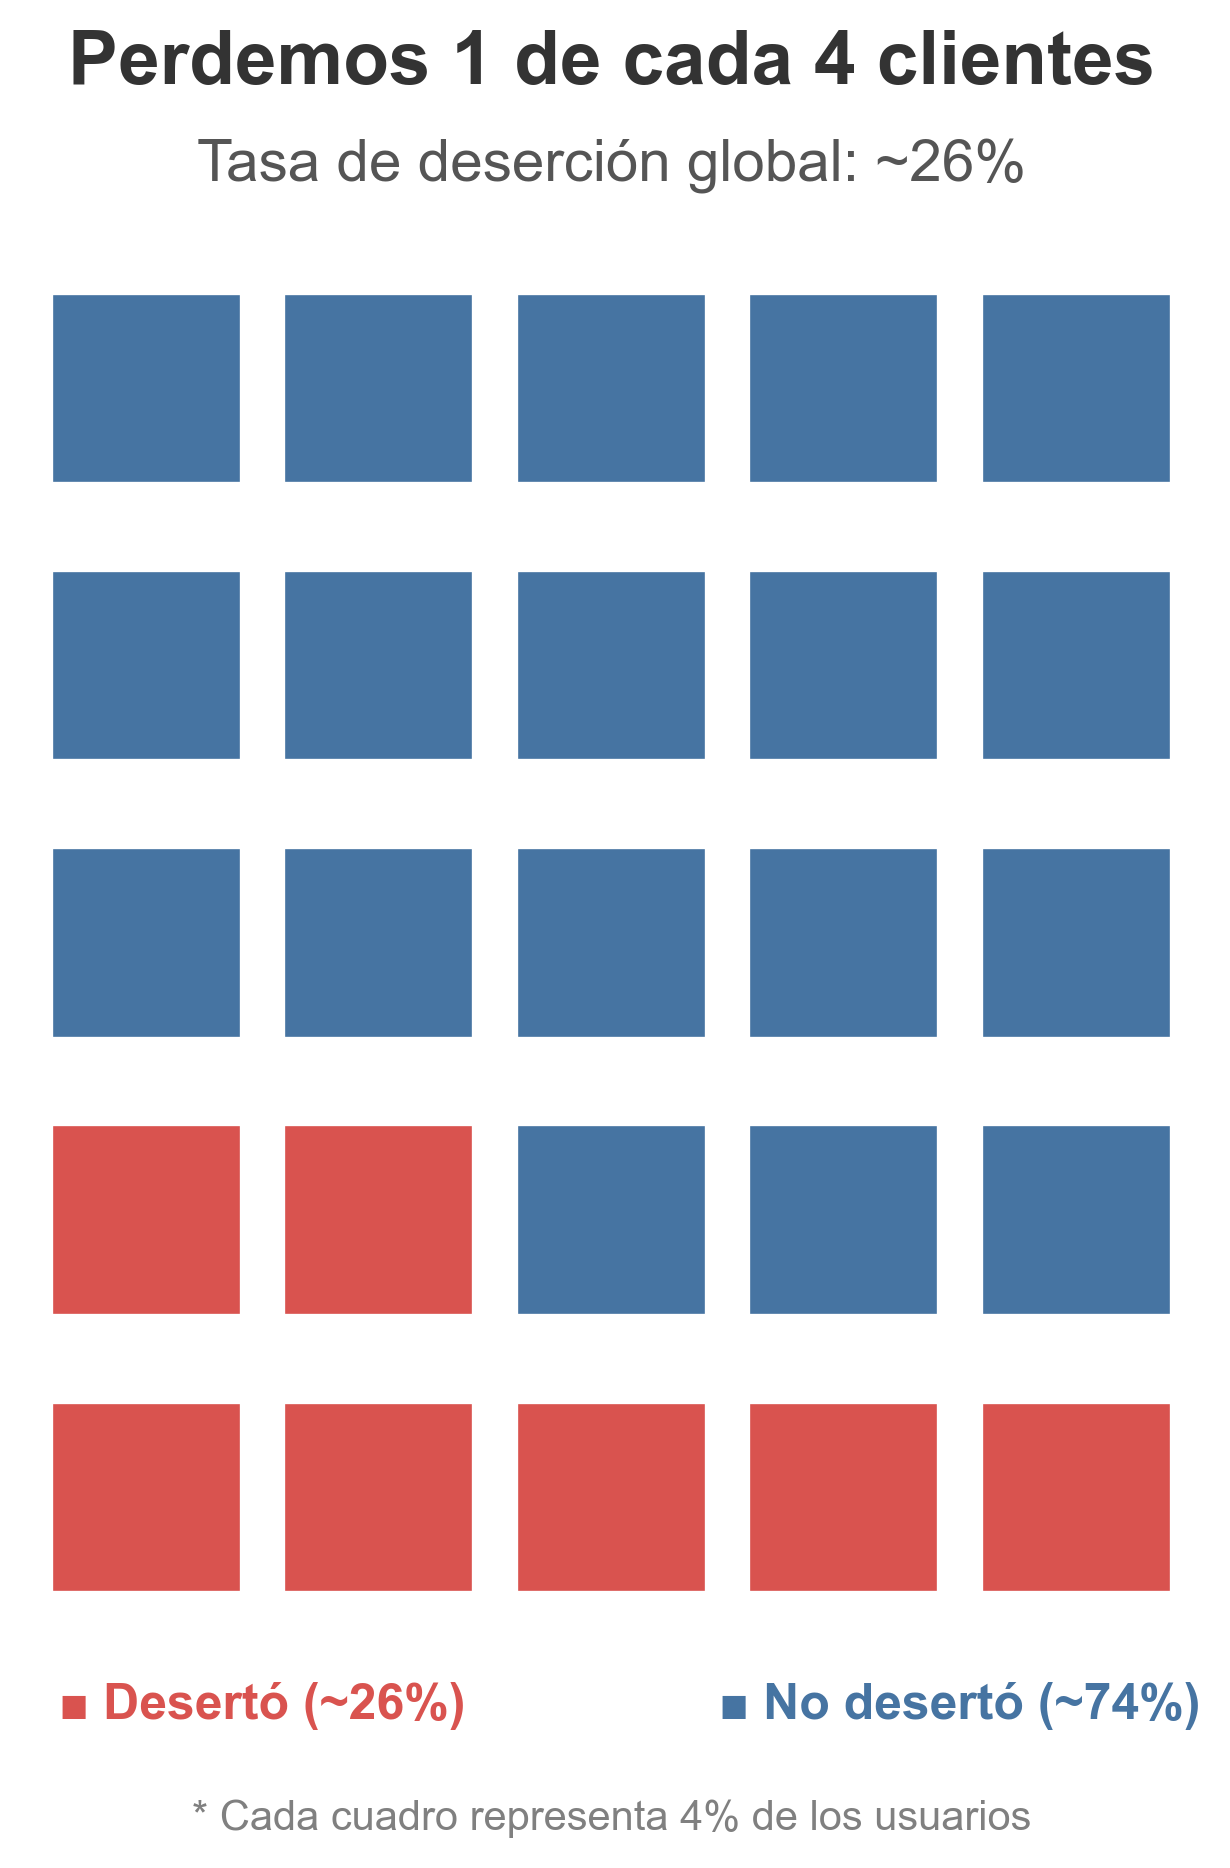
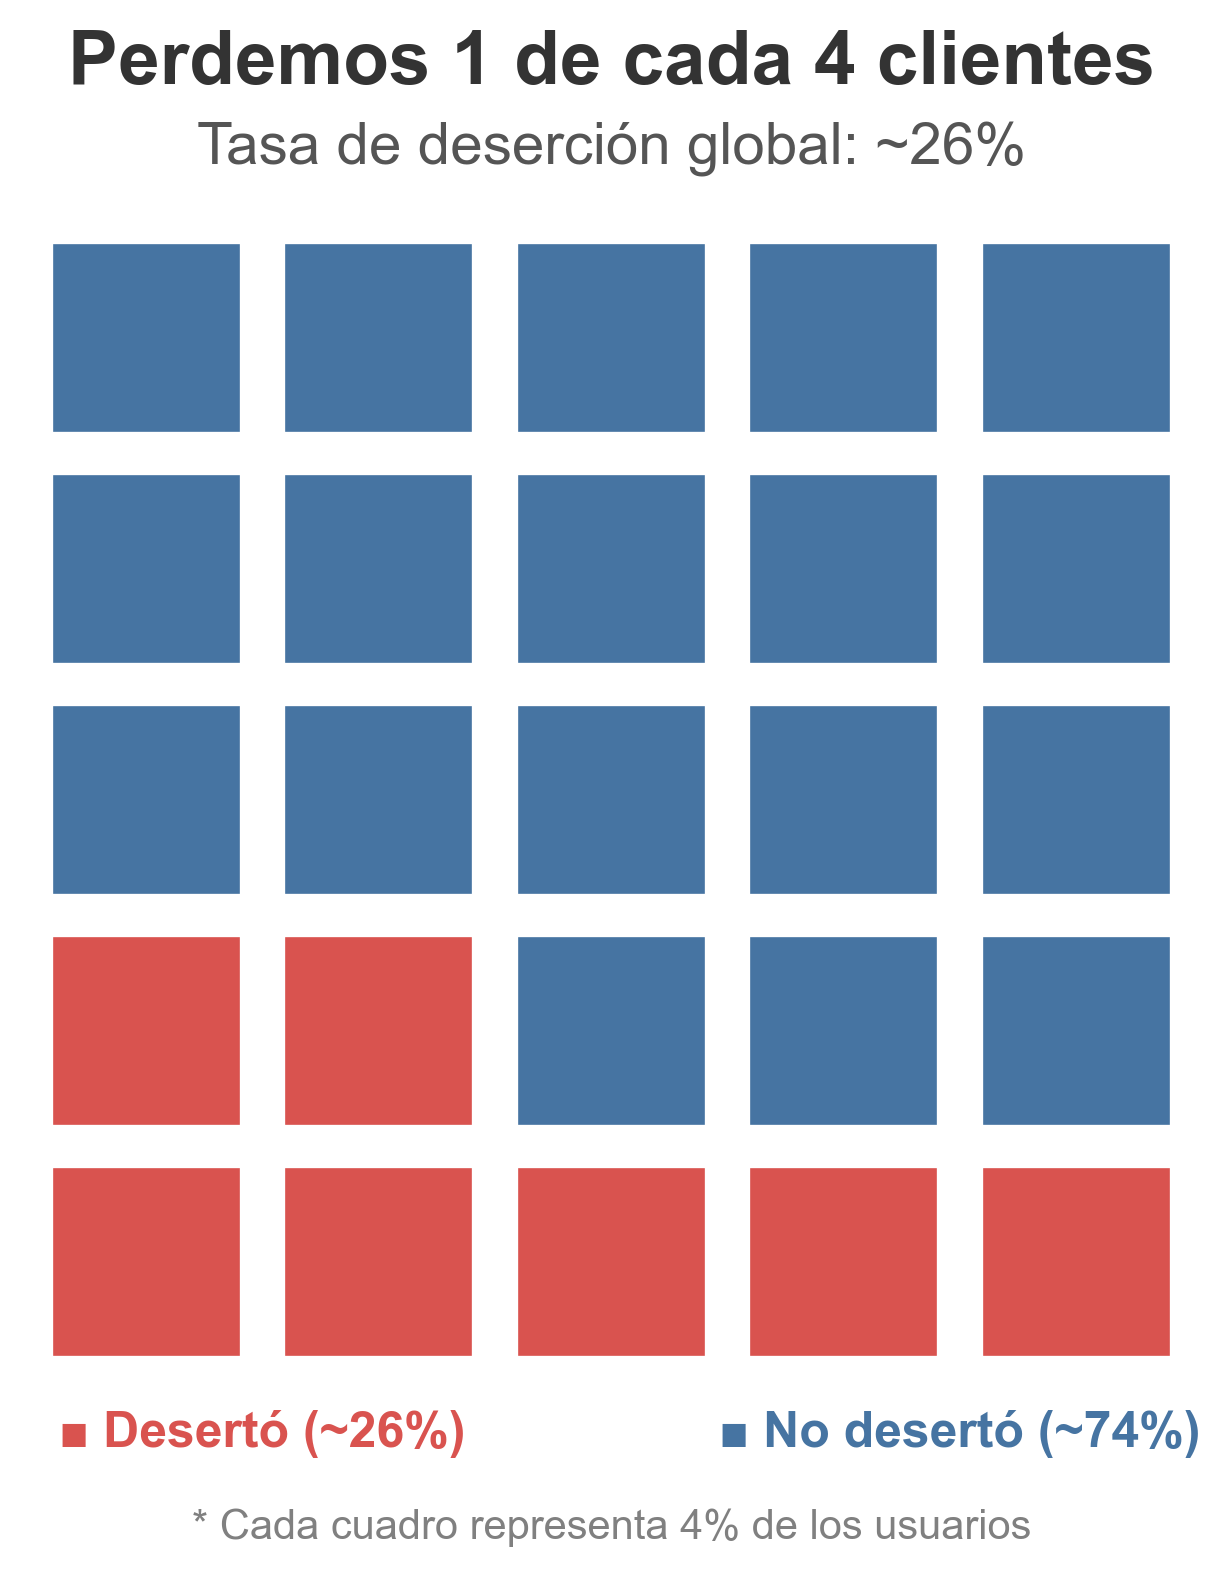
docs: refactor visual gallery for better storytelling flow

diff --git a/README.md b/README.md
@@ -1,47 +1,68 @@
-# Telecom Churn Analysis: Data-Driven Retention Strategy
+# 📡 Telecom X Latam: Customer Churn Analysis
 ![Python](https://img.shields.io/badge/python-3670A0?style=for-the-badge&logo=python&logoColor=ffdd54)
 ![Pandas](https://img.shields.io/badge/pandas-%23150458.svg?style=for-the-badge&logo=pandas&logoColor=white)
 ![NumPy](https://img.shields.io/badge/numpy-%23013243.svg?style=for-the-badge&logo=numpy&logoColor=white)
-![Matplotlib](https://img.shields.io/badge/Matplotlib-%23ffffff.svg?style=for-the-badge&logo=Matplotlib&logoColor=black)
-![Seaborn](https://img.shields.io/badge/Seaborn-444876?style=for-the-badge&logo=python&logoColor=white)
 ![Scikit-Learn](https://img.shields.io/badge/scikit--learn-%23F7931E.svg?style=for-the-badge&logo=scikit-learn&logoColor=white)
-![Git](https://img.shields.io/badge/git-%23F05033.svg?style=for-the-badge&logo=git&logoColor=white)
+![Seaborn](https://img.shields.io/badge/Seaborn-444876?style=for-the-badge&logo=python&logoColor=white)
 
 ## 📋 Executive Summary
-This project delivers a comprehensive Exploratory Data Analysis (EDA) and predictive modeling assessment for a telecommunications provider. The goal was to diagnose the root causes of a **26.5% global churn rate** and provide actionable, data-backed recommendations to improve customer retention.
+This project delivers an end-to-end **Exploratory Data Analysis (EDA)** and predictive assessment for a telecommunications provider. By analyzing behavior patterns, I diagnosed the root causes of a **26.6% global churn rate** and developed data-driven strategies to recover potential revenue losses.
 
 > **Context:** Developed as part of the **Oracle Next Education (ONE)** specialization in Data Science & Analytics.
 
 ---
 
-## 🔍 Key Strategic Insights
+## 🔍 Key Strategic Findings
 
-### 📉 The "6-Month Cliff"
-Analysis of customer tenure reveals a critical drop-off point. **Fiber Optic** users exhibit the highest churn probability within their **first 6 months** of service.
-* **Strategic Action:** Implement a "VIP Onboarding" program during the first semester to mitigate early-stage friction.
+### 1. The "Critical Semester" (53% Risk) 📉
+Tenure analysis reveals a massive drop-off early in the customer lifecycle. **53.3% of all churn** occurs within the **first 6 months** of service.
+* **Insight:** If a customer survives the first semester, their retention probability increases by over 40%.
+* **Strategy:** Implement a "First 180 Days" loyalty program for new users.
 
-### 🧬 Contractual DNA
-Statistical correlation (**-0.40**) confirms that contract duration is the strongest predictor of retention.
-* **Observation:** "Month-to-month" contracts act as the primary leak in the revenue stream, while 1-year and 2-year contracts show near-zero churn.
+### 2. Contract Stability 📄
+Statistical analysis confirms that **Month-to-Month** contracts are the primary volatility factor. Transitioning users to 1-year plans drastically reduces exit probability.
 
-### 🌳 The "Churn Profile" (Decision Tree)
-Using a Decision Tree Classifier, we mapped the specific profile of a high-risk customer:
-1.  **Contract:** Month-to-Month
-2.  **Internet Service:** Fiber Optic
-3.  **Payment Method:** Electronic Check
+### 3. The "Churn Profile" (Decision Tree) 🌳
+Using a Decision Tree Classifier, we mapped the specific high-risk profile:
+`Month-to-Month Contract` + `Fiber Optic` + `Electronic Check Payment`.
+
+---
+
+## 📊 Visual Analysis Gallery
+
+### 1. The Scale of the Problem
+![Global Churn](images/global_churn.png)
+> **Insight:** We are currently losing **1 in 4 customers** (~26%). This visualizes the immediate impact on revenue stability.
+
+---
+
+### 2. The "6-Month Cliff" (Critical Insight)
+![Tenure Churn](images/tenure_churn.png)
+> **Insight:** The red dotted line marks the danger zone. **53.3% of churn events** happen within the first half-year. If we retain a user past month 6, their lifetime value increases significantly.
+
+---
+
+### 3. What Drives the Exit? (Mathematical Proof)
+![Feature Importance](images/feature_importance.png)
+> **Insight:** Unlike common intuition, demographics (Gender, Partner) matter very little. The **Contract Type** and **Internet Service** technical specs are the true drivers of dissatisfaction.
+
+---
+
+### 4. The Path to Churn (Decision Rules)
+![Decision Tree](images/decision_tree.png)
+> **Insight:** A specific "Toxic Combo" was identified: Customers with a **Month-to-Month contract**, using **Fiber Optic**, and paying via **Electronic Check** have the highest probability of leaving.
 
 ---
 
 ## 🛠 Technical Workflow
-This project simulates a real-world data analysis task, focusing on data quality and interpretability:
-
-* **Data Wrangling:** Transformed raw JSON/CSV data, handling missing values and encoding categorical features (e.g., converting 'Yes/No' text to binary integers) for machine learning compatibility.
-* **Statistical Analysis:** Generated Correlation Matrices to filter out noise and identify variables with true predictive power.
-* **Visual Storytelling:** Utilized **Waffle Charts** and **Density Plots** to communicate complex patterns to non-technical stakeholders effectively.
+This project simulates a real-world Data Analysis task:
+1.  **ETL & Cleaning:** Transformed raw JSON data, handled missing values, and encoded categorical features for ML compatibility.
+2.  **Feature Engineering:** Validated variable importance using Correlation Matrices and Random Forest feature ranking.
+3.  **Modeling:** Implemented a Decision Tree Classifier to extract human-readable business rules for the marketing team.
 
 ---
 
 ## 👤 About the Author
 **Kevin Mendoza**
-* 🧪 **Biotechnology Engineer** leveraging scientific rigor in Data Analytics.
-* ⚙ **Aspiring Data Engineer:** Currently focused on mastering Python, SQL, and Data Pipelines to build scalable data infrastructure.
+* 🧪 **Biotechnology Engineer** 
+* ⚙ **Data Engineer in Training:** Transitioning into scalable data infrastructure.
